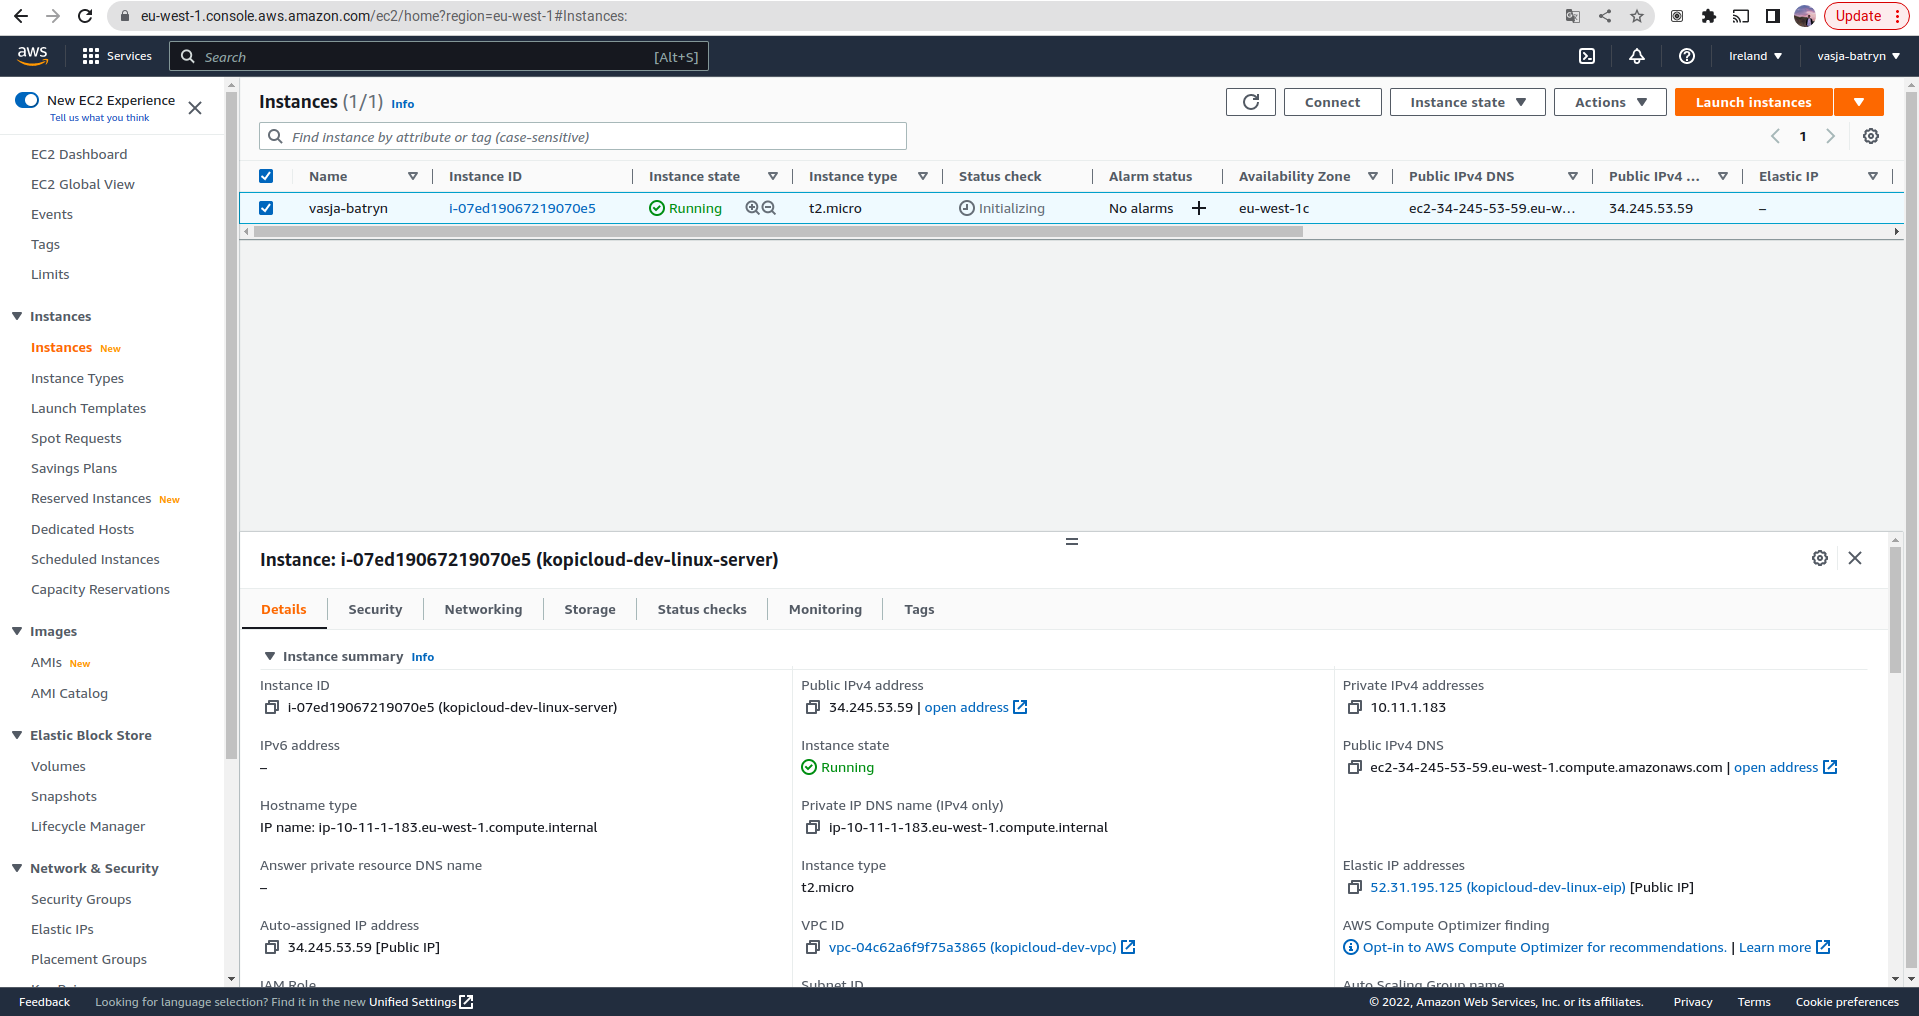
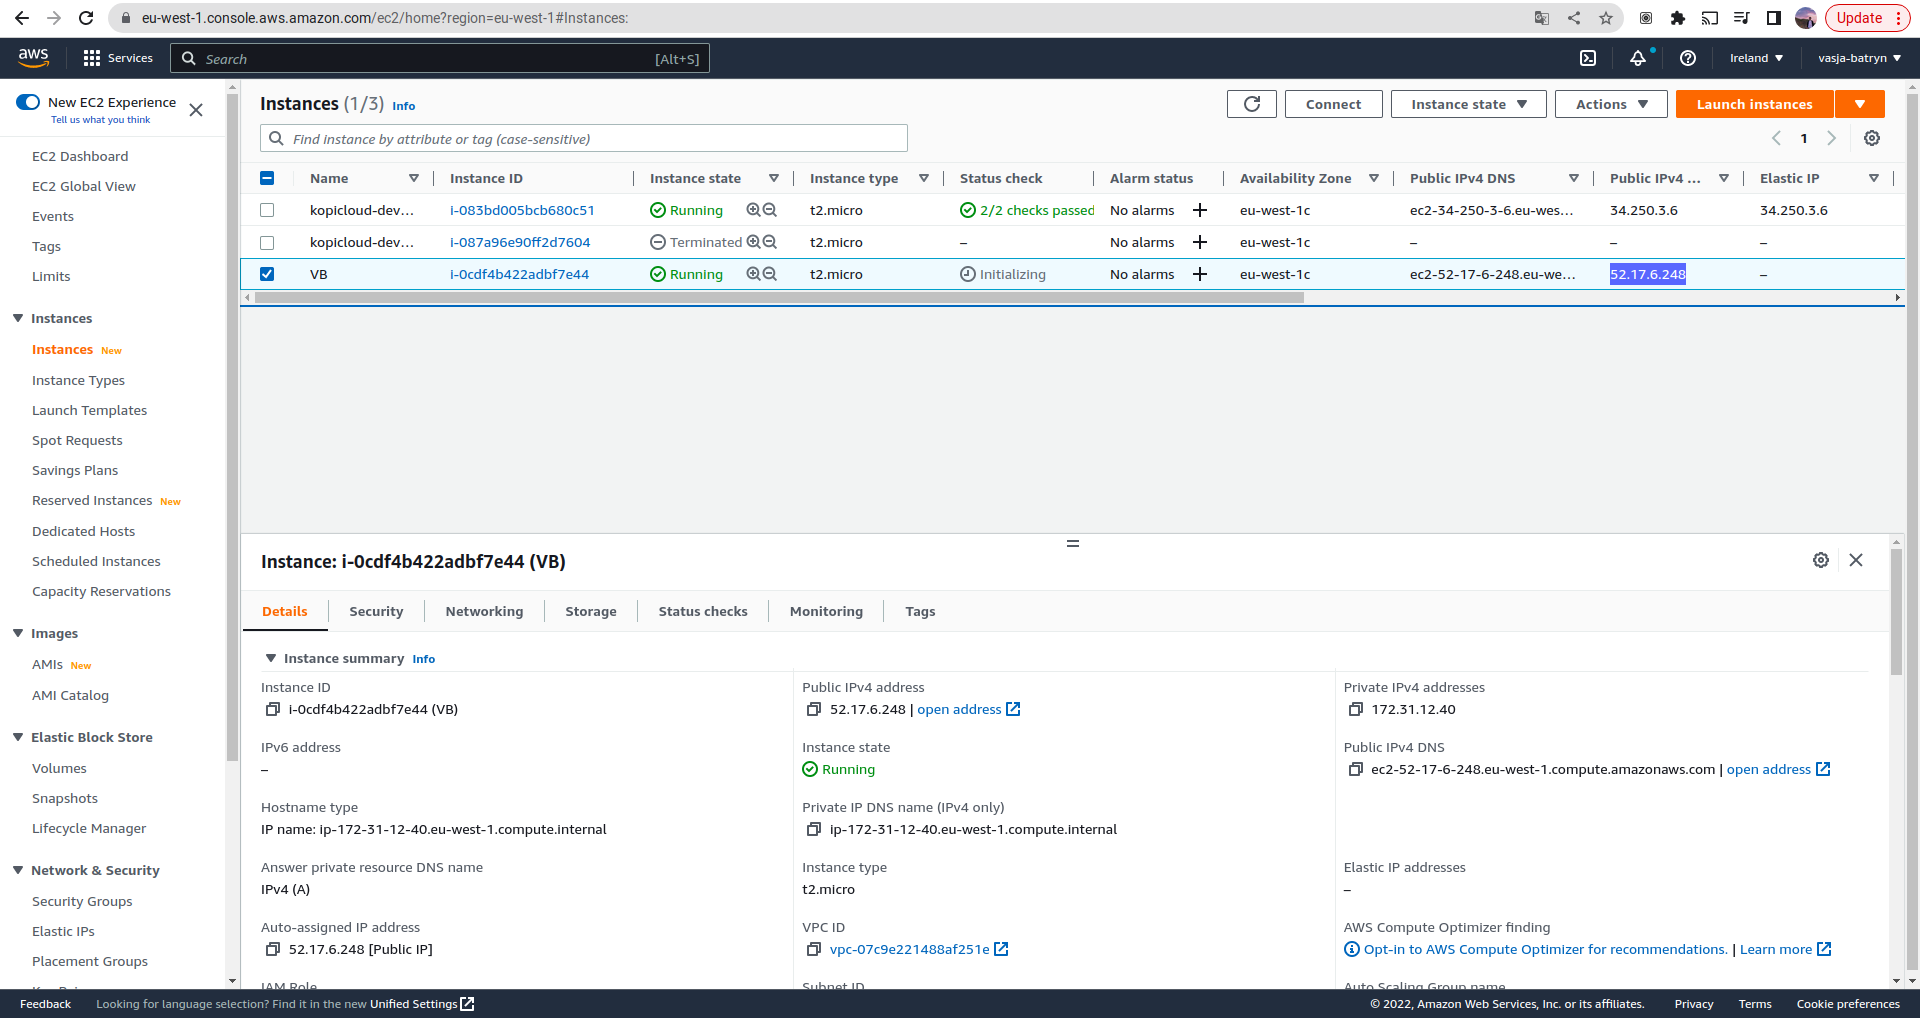
LAb5

diff --git a/README.md b/README.md
@@ -1,26 +1,22 @@
-# Лабораторна робота №4
+# Лабораторна робота №5
 
-## Завдання
+## Деплой проекту на AWS EC2
+### Завдання
 
-1. Create one instance (image: ubuntu 20.04)
-2. Allow HTTP/HTTPS traffic on a NIC
-3. Provision one SSH public key for created instance
-4. Install Web Server (Apache HTTP Server / NGINX HTTP Server) via bash scenario
+1. Зареєструватись на AWS
+2. Створити інстанс EC2
+3. Задеплоїти проект (може бути  html сторінка) і скинути посилання в звіт для можливості перегляду
+
 
 ## Хід роботи
 
-1. Create one instance (image: ubuntu 20.04)<br>
+1. Зареєструватись на AWS<br>
    <img src="/Img/1.png" height="300"><br>
-   <img src="/Img/2.png" height="300"><br>
+2. Створити інстанс EC2<br>
    <img src="/Img/3.png" height="300"><br>
-   <img src="/Img/4.png" height="300"><br>
-   <img src="/Img/5.png" height="300"><br>
-   <img src="/Img/6.png" height="300"><br>
-2. Allow HTTP/HTTPS traffic on a NIC<br>
-   <img src="/Img/9.png" height="300"><br>
-3. Provision one SSH public key for created instance<br>
-   <img src="/Img/7.png" height="300"><br>
-4. Install Web Server (Apache HTTP Server / NGINX HTTP Server) via bash scenario<br>
-   <img src="/Img/8.png" height="300"><br>
-   <img src="/Img/10.png" height="300"><br>
+3. Задеплоїти проект (може бути  html сторінка) і скинути посилання в звіт для можливості перегляду<br>
+   <img src="/Img/2.png" height="300"><br>
+
+## Посилання http://52.17.6.248/
+
 
